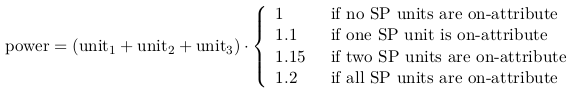
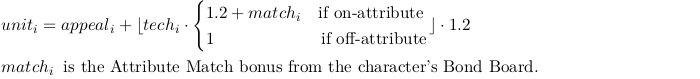
SP Power Calc: New Formula and Bond Board support

Changed region(s): [[0.0, 0.0, 1.0, 0.9367]]

diff --git a/sppower.html b/sppower.html
@@ -41,7 +41,10 @@
 <div class="container">
     <p>Enter the appeal and technique of your units in the input table. You don't have to fill out all the rows. The
         calculator will find the best combination of units to get the strongest possible SP skill. These units should be
-        the units in your three middle spots. (They don't need to be on the same subunit.)</p>
+        the units in the three middle spots of your Live Formation. They don't need to be on the same subunit.</p>
+    <p>"Match Bonus" and "SP Vo Bonus" refer to the Attribute Match bonus and the SP Voltage bonus from the character's
+        Bond Board, in percent. If you are playing on the Global server, which doesn't have this feature yet, you can just leave it
+        empty. (You can also leave it empty if you're too lazy to look them all up.)</p>
     <div class="row">
         <div class="col s12 xl6">
             <h5>Input</h5>
@@ -52,6 +55,8 @@
                     <th>Attribute</th>
                     <th>Appeal</th>
                     <th>Tech</th>
+                    <th>Match Bonus</th>
+                    <th>SP Vo Bonus</th>
                     <th>Gimmick</th>
                 </tr>
                 </thead>
@@ -71,6 +76,8 @@
                     </td>
                     <td><input id="unit1appl" type="number" min="0" placeholder="App"></td>
                     <td><input id="unit1tech" type="number" min="0" placeholder="Tech"></td>
+                    <td><input id="unit1bbat" type="number" min="0" step="0.1" placeholder="Match Bonus"></td>
+                    <td><input id="unit1bbsp" type="number" min="0" step="0.1" placeholder="SP Bonus"></td>
                     <td><label><input id="unit1gim" class="filled-in" type="checkbox"><span></span></label></td>
                 </tr>
                 <tr>
@@ -88,6 +95,8 @@
                     </td>
                     <td><input id="unit2appl" type="number" min="0" placeholder="App"></td>
                     <td><input id="unit2tech" type="number" min="0" placeholder="Tech"></td>
+                    <td><input id="unit2bbat" type="number" min="0" step="0.1" placeholder="Match Bonus"></td>
+                    <td><input id="unit2bbsp" type="number" min="0" step="0.1" placeholder="SP Bonus"></td>
                     <td><label><input id="unit2gim" class="filled-in" type="checkbox"><span></span></label></td>
                 </tr>
                 <tr>
@@ -105,6 +114,8 @@
                     </td>
                     <td><input id="unit3appl" type="number" min="0" placeholder="App"></td>
                     <td><input id="unit3tech" type="number" min="0" placeholder="Tech"></td>
+                    <td><input id="unit3bbat" type="number" min="0" step="0.1" placeholder="Match Bonus"></td>
+                    <td><input id="unit3bbsp" type="number" min="0" step="0.1" placeholder="SP Bonus"></td>
                     <td><label><input id="unit3gim" class="filled-in" type="checkbox"><span></span></label></td>
                 </tr>
                 <tr>
@@ -122,6 +133,8 @@
                     </td>
                     <td><input id="unit4appl" type="number" min="0" placeholder="App"></td>
                     <td><input id="unit4tech" type="number" min="0" placeholder="Tech"></td>
+                    <td><input id="unit4bbat" type="number" min="0" step="0.1" placeholder="Match Bonus"></td>
+                    <td><input id="unit4bbsp" type="number" min="0" step="0.1" placeholder="SP Bonus"></td>
                     <td><label><input id="unit4gim" class="filled-in" type="checkbox"><span></span></label></td>
                 </tr>
                 <tr>
@@ -139,6 +152,8 @@
                     </td>
                     <td><input id="unit5appl" type="number" min="0" placeholder="App"></td>
                     <td><input id="unit5tech" type="number" min="0" placeholder="Tech"></td>
+                    <td><input id="unit5bbat" type="number" min="0" step="0.1" placeholder="Match Bonus"></td>
+                    <td><input id="unit5bbsp" type="number" min="0" step="0.1" placeholder="SP Bonus"></td>
                     <td><label><input id="unit5gim" class="filled-in" type="checkbox"><span></span></label></td>
                 </tr>
                 <tr>
@@ -156,6 +171,8 @@
                     </td>
                     <td><input id="unit6appl" type="number" min="0" placeholder="App"></td>
                     <td><input id="unit6tech" type="number" min="0" placeholder="Tech"></td>
+                    <td><input id="unit6bbat" type="number" min="0" step="0.1" placeholder="Match Bonus"></td>
+                    <td><input id="unit6bbsp" type="number" min="0" step="0.1" placeholder="SP Bonus"></td>
                     <td><label><input id="unit6gim" class="filled-in" type="checkbox"><span></span></label></td>
                 </tr>
                 <tr>
@@ -173,6 +190,8 @@
                     </td>
                     <td><input id="unit7appl" type="number" min="0" placeholder="App"></td>
                     <td><input id="unit7tech" type="number" min="0" placeholder="Tech"></td>
+                    <td><input id="unit7bbat" type="number" min="0" step="0.1" placeholder="Match Bonus"></td>
+                    <td><input id="unit7bbsp" type="number" min="0" step="0.1" placeholder="SP Bonus"></td>
                     <td><label><input id="unit7gim" class="filled-in" type="checkbox"><span></span></label></td>
                 </tr>
                 <tr>
@@ -190,6 +209,8 @@
                     </td>
                     <td><input id="unit8appl" type="number" min="0" placeholder="App"></td>
                     <td><input id="unit8tech" type="number" min="0" placeholder="Tech"></td>
+                    <td><input id="unit8bbat" type="number" min="0" step="0.1" placeholder="Match Bonus"></td>
+                    <td><input id="unit8bbsp" type="number" min="0" step="0.1" placeholder="SP Bonus"></td>
                     <td><label><input id="unit8gim" class="filled-in" type="checkbox"><span></span></label></td>
                 </tr>
                 <tr>
@@ -207,6 +228,8 @@
                     </td>
                     <td><input id="unit9appl" type="number" min="0" placeholder="App"></td>
                     <td><input id="unit9tech" type="number" min="0" placeholder="Tech"></td>
+                    <td><input id="unit9bbat" type="number" min="0" step="0.1" placeholder="Match Bonus"></td>
+                    <td><input id="unit9bbsp" type="number" min="0" step="0.1" placeholder="SP Bonus"></td>
                     <td><label><input id="unit9gim" class="filled-in" type="checkbox"><span></span></label></td>
                 </tr>
                 </tbody>

diff --git a/js/sppower.js b/js/sppower.js
@@ -23,9 +23,11 @@ function sortAllUnits() {
         var appl = Number($("#unit" + i + "appl").val());
         var tech = Number($("#unit" + i + "tech").val());
         var attr = Number($("#unit" + i + "attr").val());
+        var bbat = Number($("#unit" + i + "bbat").val()) / 100;
+        var bbsp = Number($("#unit" + i + "bbsp").val()) / 100;
         if (appl === 0 && tech === 0) continue;
 
-        var attrmatch = (sortattr === 0 || (attr !== 0 && sortattr === attr));
+        var attrmatch = (attr !== 0 && sortattr === attr);
         var gimmicked = false;
         if (gimmickcond == "off-attribute") {
             gimmicked = !attrmatch;
@@ -38,7 +40,8 @@ function sortAllUnits() {
         units.push({
             name: $("#unit" + i + "name").val(),
             match: attrmatch,
-            power: appl * (gimmicked ? gimmickfac : 1) + tech * (attrmatch ? 1.44 : 1.2),
+            power: appl * (gimmicked ? gimmickfac : 1) + Math.floor(tech * (attrmatch ? 1.2 + bbat : 1)) * 1.2,
+            bbsp: bbsp,
             disppower: appl + tech * 1.2
         });
     }
@@ -65,7 +68,8 @@ function sortAllUnits() {
         topsp = sum * getRateFromNumberOfBoosts(boosts);
     } else if (sortattr === 0) {
         topunits = [units[0], units[1], units[2]];
-        topsp = (units[0].power + units[1].power + units[2].power) * getRateFromNumberOfBoosts(3);
+        topsp = Math.floor(units[0].power + units[1].power + units[2].power)
+            * (1 + units[0].bbsp + units[1].bbsp + units[2].bbsp);
     } else {
         // this could probably be optimized.
         // once it is, I can add more rows and auto-calculate on value changes
@@ -82,8 +86,10 @@ function sortAllUnits() {
                     currentunits[2] = units[c];
                     if (currentunits[2].match) currentboosts++;
 
-                    var currentsp = (currentunits[0].power + currentunits[1].power + currentunits[2].power) *
-                                    getRateFromNumberOfBoosts(currentboosts);
+                    var currentsp = Math.floor(Math.floor(
+                        currentunits[0].power + currentunits[1].power + currentunits[2].power)
+                        * (1 + currentunits[0].bbsp + currentunits[1].bbsp + currentunits[2].bbsp))
+                        * getRateFromNumberOfBoosts(currentboosts);
                     if (currentsp > topsp) {
                         topunits = currentunits.slice(0); // array clone
                         topsp = currentsp;
@@ -102,9 +108,11 @@ function sortAllUnits() {
     var result = "";
     var rank = 1;
     var displaysum = 0;
+    var totalbbsp = 1;
     topunits.forEach(function (unit) {
         if (rank <= 3) {
             displaysum += unit.disppower;
+            totalbbsp += unit.bbsp;
         }
         result += "<tr>";
         result += "<td>" + (rank++) + "</td>";
@@ -115,7 +123,7 @@ function sortAllUnits() {
 
     $("#resulttable").show();
     $("#resultbody").html(result);
-    $("#displaysp").text(Math.floor(displaysum));
+    $("#displaysp").text(Math.floor(Math.floor(displaysum) * totalbbsp));
     $("#realsp").text(Math.floor(topsp));
 }
 
@@ -128,7 +136,17 @@ $(function () {
 
     var gc = $("#gimmickcond");
     $("#inputtable").toggleClass("gimmickselect", gc.find(':selected').val() == "selected");
-    gc.on("change", function() {
+    gc.on("change", function () {
         $("#inputtable").toggleClass("gimmickselect", $(this).find(':selected').val() == "selected");
     });
+
+    for (var i = 1; i <= 9; i++) {
+        var attr = $('#unit' + i + 'attr');
+        attr.on("change", function () {
+            var icon = $(this).find(':selected').data("icon");
+            if (icon !== undefined) $(this).parent().css("background-image", "url(" + icon + ")");
+        });
+        var icon = attr.find(':selected').data("icon");
+        if (icon !== undefined) attr.parent().css("background-image", "url(" + icon + ")");
+    }
 });

diff --git a/css/sppower.css b/css/sppower.css
@@ -31,49 +31,65 @@ th, tr td:first-child {
 }
 
 #inputtable:not(.gimmickselect) tr td:nth-child(1) {
-    width: 30%;
+    width: 20%;
 }
 
 #inputtable:not(.gimmickselect) tr td:nth-child(2) {
-    width: 40%;
+    width: 10%;
 }
 
 #inputtable:not(.gimmickselect) tr td:nth-child(3) {
-    width: 15%;
+    width: 17.5%;
 }
 
 #inputtable:not(.gimmickselect) tr td:nth-child(4) {
-    width: 15%;
+    width: 17.5%;
 }
 
-#inputtable:not(.gimmickselect) tr td:nth-child(5), #inputtable:not(.gimmickselect) tr th:nth-child(5) {
+#inputtable:not(.gimmickselect) tr td:nth-child(5) {
+    width: 17.5%;
+}
+
+#inputtable:not(.gimmickselect) tr td:nth-child(6) {
+    width: 17.5%;
+}
+
+#inputtable:not(.gimmickselect) tr td:nth-child(7), #inputtable:not(.gimmickselect) tr th:nth-child(7) {
     width: 0%;
     text-align: center;
     display: none;
 }
 
 #inputtable.gimmickselect tr td:nth-child(1) {
-    width: 25%;
+    width: 20%;
 }
 
 #inputtable.gimmickselect tr td:nth-child(2) {
-    width: 45%;
+    width: 10%;
 }
 
 #inputtable.gimmickselect tr td:nth-child(3) {
-    width: 10%;
+    width: 15%;
 }
 
 #inputtable.gimmickselect tr td:nth-child(4) {
-    width: 10%;
+    width: 15%;
 }
 
-#inputtable.gimmickselect tr td:nth-child(5), #inputtable.gimmickselect tr th:nth-child(5) {
+#inputtable.gimmickselect tr td:nth-child(5) {
+    width: 15%;
+}
+
+#inputtable.gimmickselect tr td:nth-child(6) {
+    width: 15%;
+}
+
+#inputtable.gimmickselect tr td:nth-child(7), #inputtable.gimmickselect tr th:nth-child(7) {
     width: 10%;
     text-align: center;
 }
 
-#inputtable tr td:nth-child(5) input[type="checkbox"] + span {
+#inputtable tr td:nth-child(7) input[type="checkbox"] + span {
     border: none !important;
     background: none !important;
     width: 0 !important;
@@ -82,4 +98,22 @@ th, tr td:first-child {
 
 .fullwidth {
     width: 100%;
+}
+
+#inputtable .select-wrapper {
+    background-size: 40px 40px;
+    background-repeat: no-repeat;
+    background-position-y: 3px;
+}
+
+#inputtable .select-wrapper[style^="background-image: url"] input {
+    color: rgba(0,0,0,0) !important;
+}
+
+#inputtable .select-wrapper li span {
+    display: none;
+}
+
+#inputtable .select-dropdown li img {
+    margin: 5px 30% 0 0;
 }

diff --git a/js/networkinfo.js b/js/networkinfo.js
@@ -1,7 +1,7 @@
-var jpDateOverride = [new Date(Date.UTC(2020, 6, 6, 6)),
-    new Date(Date.UTC(2020, 6, 15, 6))];
-var enDateOverride = [new Date(Date.UTC(2020, 6, 5, 6)),
-    new Date(Date.UTC(2020, 6, 15, 6))];
+var jpDateOverride = [new Date(Date.UTC(2020, 6, 22, 6)),
+    new Date(Date.UTC(2020, 6, 31, 6))];
+var enDateOverride = [new Date(Date.UTC(2020, 6, 20, 6)),
+    new Date(Date.UTC(2020, 6, 30, 6))];
 
 var notificationInfo = {
     message: "<b>March 19 Update:</b> New JP LP cap has been added, and the point tables on WW now use the regular ones. All of this is now controlled through the region selection.<br>Stay healthy, stay home (if it's possible for you), wash your hands and grind responsibly ❤",
